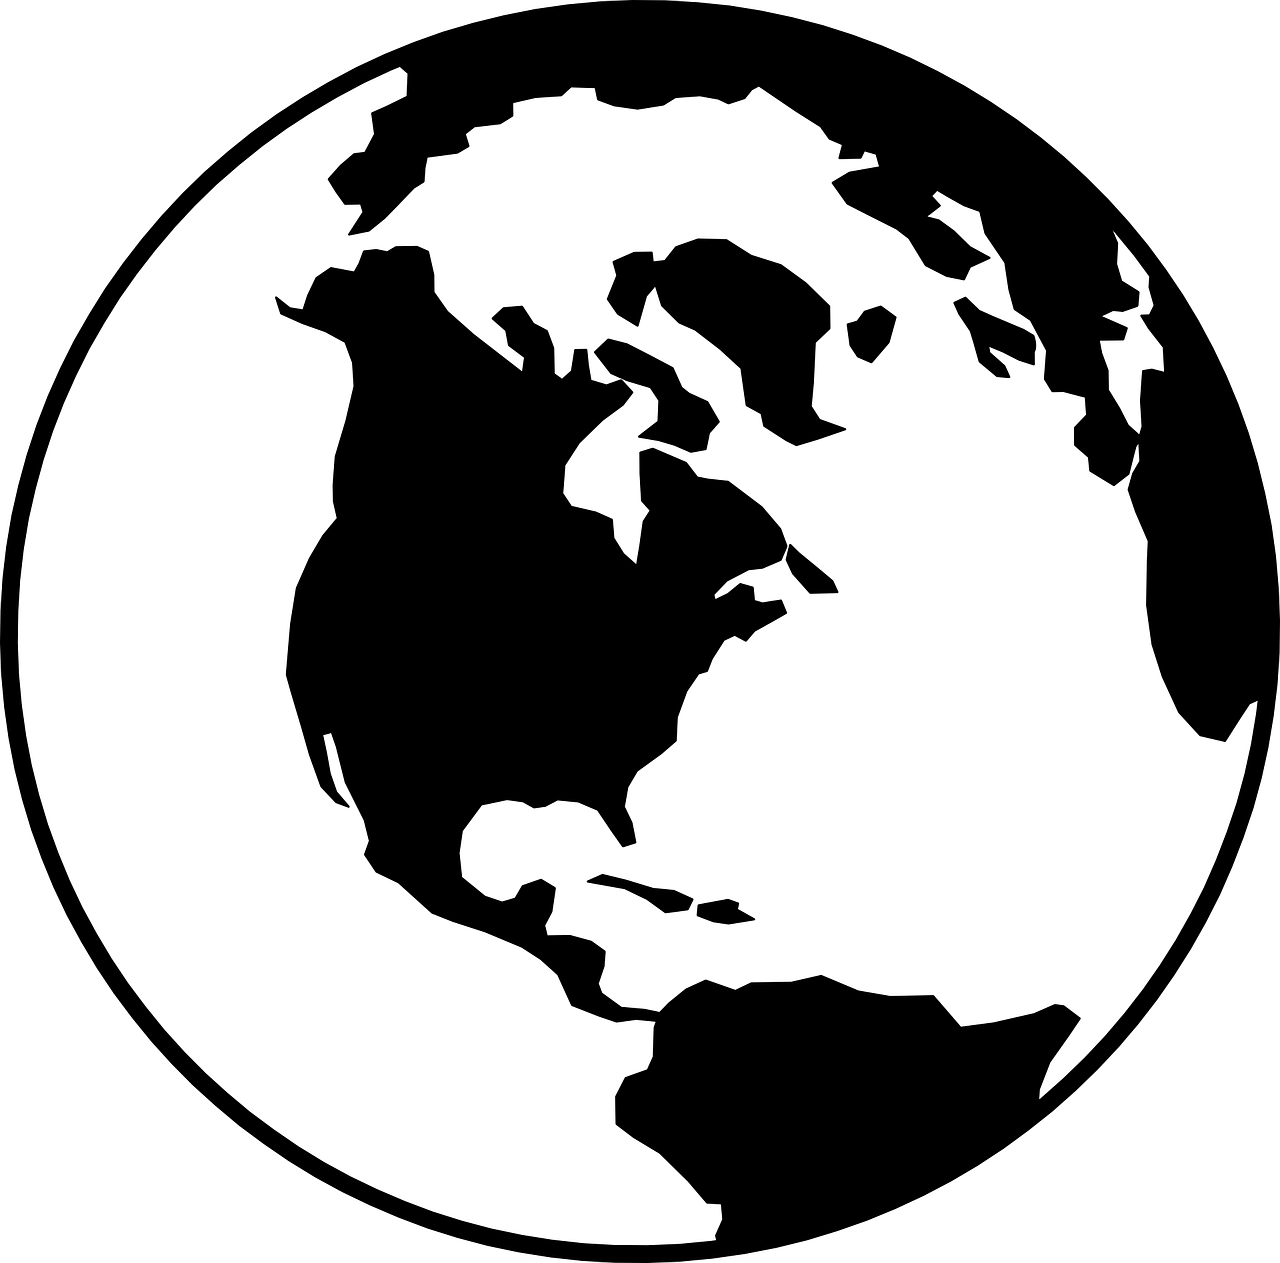
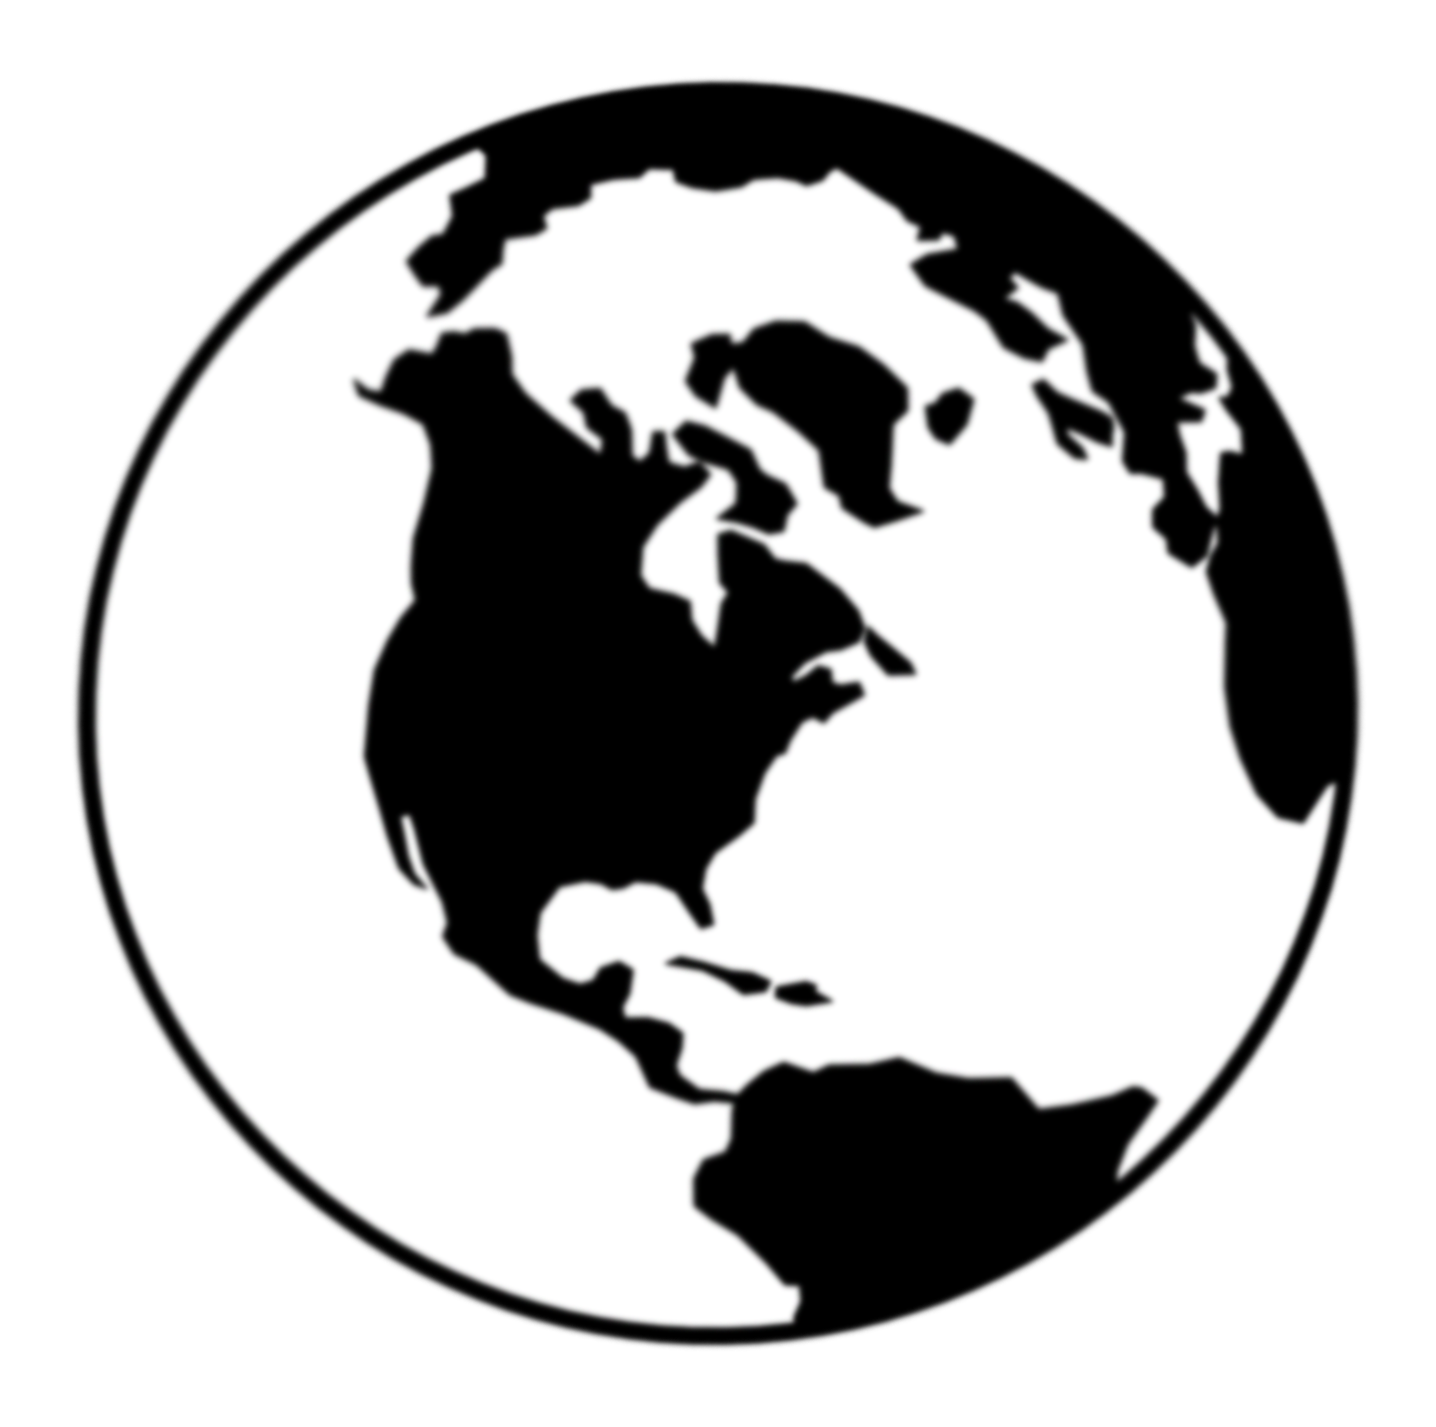
Fixed bugs Edge and screens smaller than 300px
Changed results title and image to column when screen < 300px so that the title is readable
Edited earth.png to look softer on Edge and fixed cropping issue because it didn't look that great
Changed ul to display in center instead of space-around because it was displaying to the left when screen > 1200px

Changed region(s): [[0.0, 0.0, 1.0, 1.0], [0.125, 0.1235, 0.1875, 0.1853]]

diff --git a/main.css b/main.css
@@ -40,6 +40,9 @@ div.title-and-image {
 }
 
 #header-image {
+  background-image: url('images/earth.png');
+  background-repeat: no-repeat;
+  background-size: cover;
   padding: 0px;
   margin-left: 15px;
   height: 45px;
@@ -65,7 +68,7 @@ section.search-container {
 }
 
 input.search-input {
-  width: 200px;
+  width: 70%;
 }
 
 input.search-submit {
@@ -125,6 +128,7 @@ img {
 
 div.image-box {
   display: flex;
+  flex-direction: column;
   align-items: center;
   margin-bottom: 15px;
 }
@@ -243,6 +247,16 @@ p.strongly-positive {
 
 }
 
+@media only screen and (min-width: 300px) {
+  div.image-box {
+    flex-direction: row;
+  }
+
+  input.search-input {
+    width: 200px;
+  }
+}
+
 @media only screen and (min-width: 575px) {
   li.list-item-content {
     width: 90%;
@@ -271,7 +285,7 @@ p.strongly-positive {
   ul.list {
     flex-direction: row;
     flex-wrap: wrap;
-    justify-content: space-evenly;
+    justify-content: center;
   }
   
   li.list-item-content { 

diff --git a/index.js b/index.js
@@ -82,7 +82,7 @@ function resultsHTML(dataObj) {
       <p class="description">${data[i].description}</p>
       <div class="info-box">
         <div class="more-info-box">
-          <p>Published by: <a href="${data[i].url}">${data[i].source.name}</a></p>
+          <p>Published by: <a href="${data[i].url}" target="_blank">${data[i].source.name}</a></p>
           <p>On: <span id="publish-date">${renderTime(data[i].publishedAt)}</span></p>
         </div>
         <a class="full-article" href="${data[i].url}" target="_blank">Read full article..</a>

diff --git a/index.html b/index.html
@@ -14,7 +14,7 @@
     <div class="header-container">
       <div class="title-and-image">
         <h1>Balanced News</h1>
-        <img id="header-image" src="images/earth.png" alt="earth from space">
+        <div id='header-image'></div>
       </div>
       <h3 class="header-about">Search articles from over 30,000 news sources and blogs<br><span id='and'>&</span> check if the author may have had bias while writing it</h3>
     </div>
